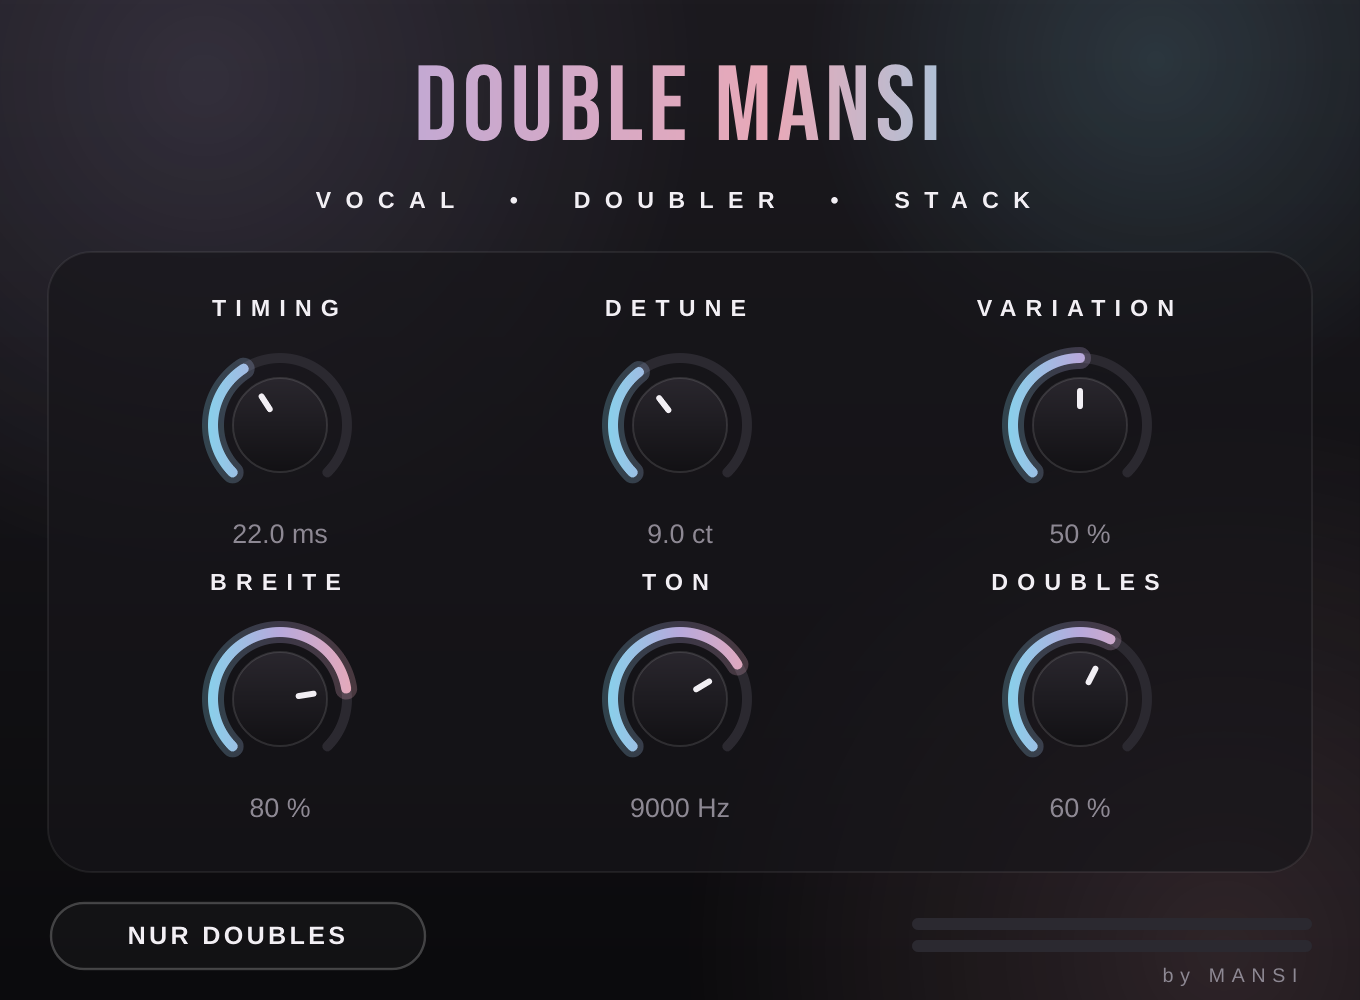
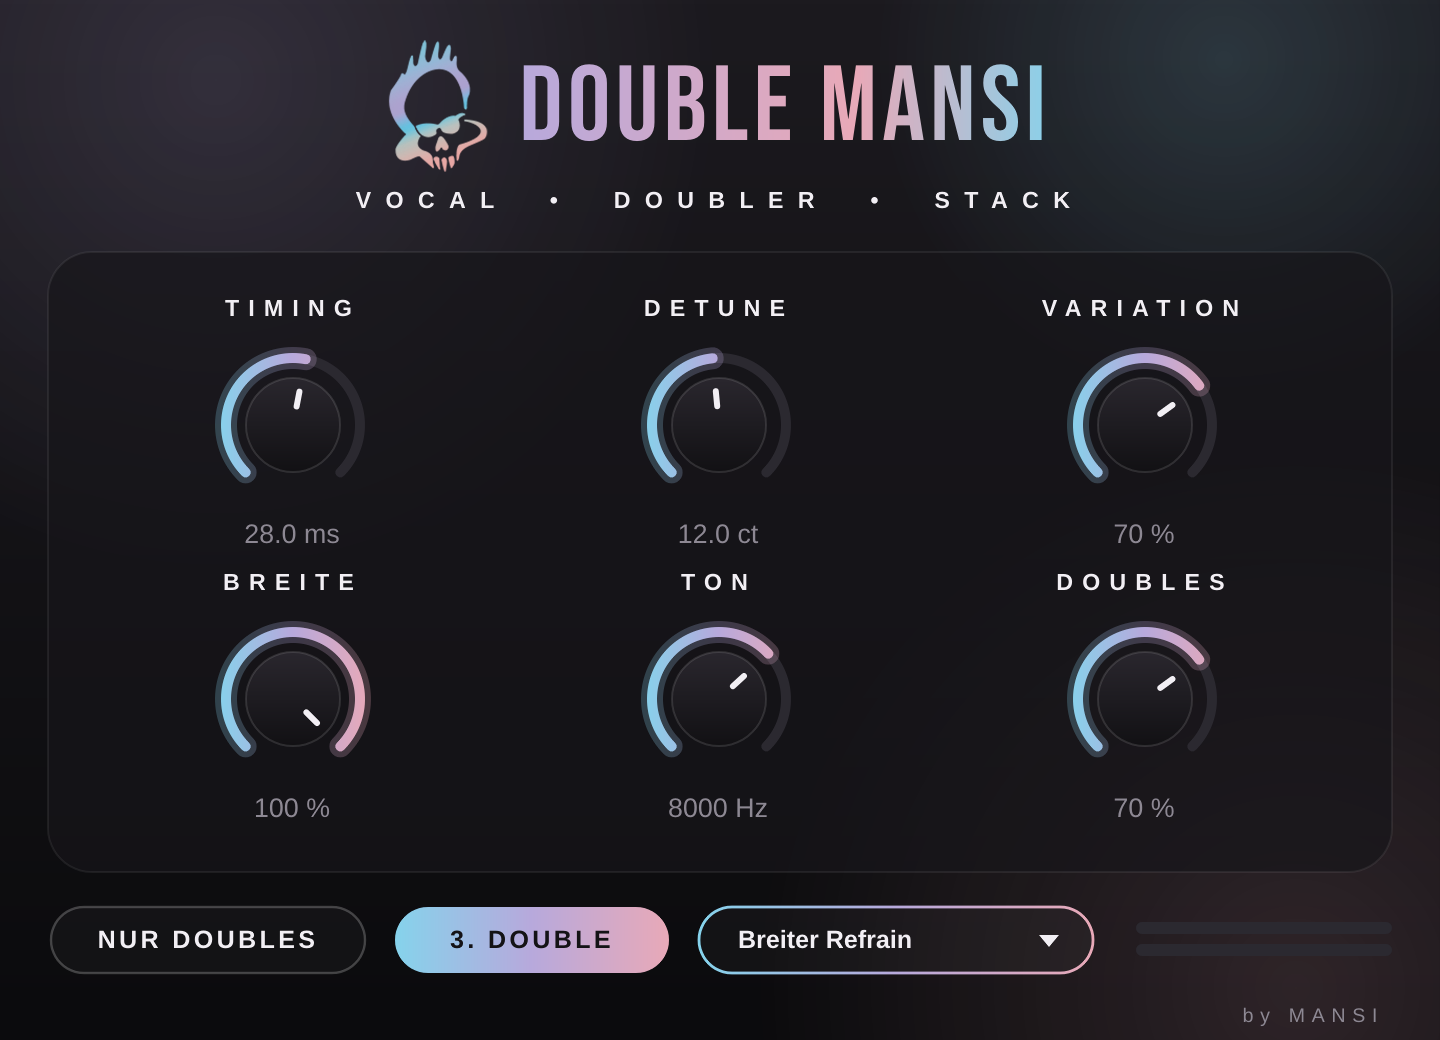
Add files via upload

diff --git a/PluginEditor.cpp b/PluginEditor.cpp
@@ -26,6 +26,11 @@ MansiLookAndFeel::MansiLookAndFeel()
     setColour (juce::Slider::textBoxTextColourId, Palette::text);
     setColour (juce::Slider::textBoxOutlineColourId, juce::Colours::transparentBlack);
     setColour (juce::Label::textColourId, Palette::text);
+    setColour (juce::ComboBox::textColourId, Palette::text);
+    setColour (juce::PopupMenu::backgroundColourId, juce::Colour (0xff1a181d));
+    setColour (juce::PopupMenu::textColourId, Palette::text);
+    setColour (juce::PopupMenu::highlightedBackgroundColourId, Palette::lavender.withAlpha (0.35f));
+    setColour (juce::PopupMenu::highlightedTextColourId, juce::Colours::white);
 }
 
 juce::Label* MansiLookAndFeel::createSliderTextBox (juce::Slider& s)
@@ -108,6 +113,33 @@ void MansiLookAndFeel::drawToggleButton (juce::Graphics& g, juce::ToggleButton& 
     g.drawText (b.getButtonText(), r, juce::Justification::centred);
 }
 
+void MansiLookAndFeel::drawComboBox (juce::Graphics& g, int w, int h, bool, int, int, int, int, juce::ComboBox& box)
+{
+    auto r = juce::Rectangle<float> (0, 0, (float) w, (float) h).reduced (1.5f);
+    const float corner = r.getHeight() * 0.5f;
+    g.setColour (juce::Colours::white.withAlpha (box.isMouseOver (true) ? 0.08f : 0.03f));
+    g.fillRoundedRectangle (r, corner);
+    g.setGradientFill (brandGradient (r));
+    g.drawRoundedRectangle (r, corner, 1.4f);
+
+    // kleiner Pfeil
+    const float ax = r.getRight() - 22.0f, ay = r.getCentreY();
+    juce::Path arrow;
+    arrow.addTriangle (ax - 5.0f, ay - 2.5f, ax + 5.0f, ay - 2.5f, ax, ay + 3.5f);
+    g.setColour (Palette::text);
+    g.fillPath (arrow);
+}
+
+void MansiLookAndFeel::positionComboBoxText (juce::ComboBox& box, juce::Label& label)
+{
+    label.setBounds (16, 1, box.getWidth() - 44, box.getHeight() - 2);
+    label.setFont (getComboBoxFont (box));
+    label.setJustificationType (juce::Justification::centredLeft);
+}
+
+juce::Font MansiLookAndFeel::getComboBoxFont (juce::ComboBox&) { return uiFont (14.0f, true); }
+juce::Font MansiLookAndFeel::getPopupMenuFont() { return uiFont (15.0f); }
+
 //==============================================================================
 DoubleMansiEditor::DoubleMansiEditor (DoubleMansiProcessor& p)
     : AudioProcessorEditor (p), processor (p)
@@ -125,13 +157,43 @@ DoubleMansiEditor::DoubleMansiEditor (DoubleMansiProcessor& p)
     onlyButton.setClickingTogglesState (true);
     onlyAttachment = std::make_unique<juce::AudioProcessorValueTreeState::ButtonAttachment> (processor.apvts, "only", onlyButton);
 
-    setSize (680, 500);
+    addAndMakeVisible (thirdButton);
+    thirdButton.setClickingTogglesState (true);
+    thirdAttachment = std::make_unique<juce::AudioProcessorValueTreeState::ButtonAttachment> (processor.apvts, "third", thirdButton);
+
+    // Presets
+    for (int i = 0; i < processor.getNumPrograms(); ++i)
+        presetBox.addItem (processor.getProgramName (i), i + 1);
+    presetBox.setTextWhenNothingSelected ("PRESETS");
+    presetBox.setSelectedId (processor.getCurrentProgram() + 1, juce::dontSendNotification);
+    presetBox.onChange = [this]
+    {
+        const int id = presetBox.getSelectedId();
+        if (id <= 0 || applyingPreset) return;
+        applyingPreset = true;
+        processor.setCurrentProgram (id - 1);
+        presetDirty = false;
+        applyingPreset = false;
+    };
+    addAndMakeVisible (presetBox);
+
+    // wenn ein Regler bewegt wird, ist es kein reines Preset mehr
+    for (auto* param : processor.getParameters())
+        param->addListener (this);
+
+   #if DM_HAS_LOGO
+    logo = juce::ImageCache::getFromMemory (BinaryData::logo_png, BinaryData::logo_pngSize);
+   #endif
+
+    setSize (720, 520);
     startTimerHz (30);
 }
 
 DoubleMansiEditor::~DoubleMansiEditor()
 {
     stopTimer();
+    for (auto* param : processor.getParameters())
+        param->removeListener (this);
     setLookAndFeel (nullptr);
 }
 
@@ -166,6 +228,22 @@ void DoubleMansiEditor::timerCallback()
     meterL = juce::jmax (processor.meterLeft.load(), meterL * 0.88f);
     meterR = juce::jmax (processor.meterRight.load(), meterR * 0.88f);
     repaint (meterArea);
+
+    if (presetDirty.exchange (false) && ! applyingPreset && presetBox.getSelectedId() != 0)
+    {
+        // pruefen, ob die Regler noch exakt dem gewaehlten Preset entsprechen
+        const auto& pr = DoubleMansiProcessor::presets()[(size_t) presetBox.getSelectedId() - 1];
+        auto val = [this] (const char* id) { return processor.apvts.getRawParameterValue (id)->load(); };
+        const bool same = std::abs (val ("timing") - pr.timing) < 0.05f
+                       && std::abs (val ("detune") - pr.detune) < 0.05f
+                       && std::abs (val ("variation") - pr.variation) < 0.5f
+                       && std::abs (val ("width") - pr.width) < 0.5f
+                       && std::abs (val ("tone") - pr.tone) < 1.0f
+                       && std::abs (val ("mix") - pr.mix) < 0.5f
+                       && ((val ("third") > 0.5f) == pr.third);
+        if (! same)
+            presetBox.setText (presetBox.getText().upToFirstOccurrenceOf (" *", false, false) + " *", juce::dontSendNotification);
+    }
 }
 
 void DoubleMansiEditor::paint (juce::Graphics& g)
@@ -187,17 +265,26 @@ void DoubleMansiEditor::paint (juce::Graphics& g)
     glow (Palette::pink, b.getWidth() * 0.9f, b.getHeight() * 0.95f, 280.0f);
     glow (Palette::sky, b.getWidth() * 0.85f, 30.0f, 180.0f);
 
-    // Titel im Verlaufs-Schriftzug
-    auto titleArea = juce::Rectangle<float> (0.0f, 22.0f, b.getWidth(), 64.0f);
-    g.setFont (juce::Font (juce::FontOptions (lnf.display).withHeight (64.0f)).withExtraKerningFactor (0.04f));
-    g.setGradientFill (juce::ColourGradient (Palette::lavender, b.getWidth() * 0.25f, 0,
-                                             Palette::sky, b.getWidth() * 0.75f, 0, false));
+    // Titel im Verlaufs-Schriftzug (mit Logo davor, falls vorhanden)
+    const juce::String title ("DOUBLE MANSI");
+    const auto titleFont = juce::Font (juce::FontOptions (lnf.display).withHeight (64.0f)).withExtraKerningFactor (0.04f);
+    const float textW = juce::GlyphArrangement::getStringWidth (titleFont, title);
+    const float logoH = 66.0f;
+    const float logoW = logo.isValid() ? logoH * (float) logo.getWidth() / (float) juce::jmax (1, logo.getHeight()) : 0.0f;
+    const float gap = logo.isValid() ? 16.0f : 0.0f;
+    const float startX = (b.getWidth() - (logoW + gap + textW)) * 0.5f;
+
+    if (logo.isValid())
+        g.drawImage (logo, juce::Rectangle<float> (startX, 20.0f, logoW, logoH), juce::RectanglePlacement::centred);
+
+    auto titleArea = juce::Rectangle<float> (startX + logoW + gap, 22.0f, textW + 4.0f, 64.0f);
+    g.setFont (titleFont);
     {
-        juce::ColourGradient tg (Palette::lavender, b.getWidth() * 0.22f, 0, Palette::sky, b.getWidth() * 0.78f, 0, false);
+        juce::ColourGradient tg (Palette::lavender, titleArea.getX(), 0, Palette::sky, titleArea.getRight(), 0, false);
         tg.addColour (0.62, Palette::pink);
         g.setGradientFill (tg);
     }
-    g.drawText ("DOUBLE MANSI", titleArea, juce::Justification::centred);
+    g.drawText (title, titleArea, juce::Justification::centredLeft);
 
     // Untertitel mit weiter Laufweite und Punkten
     g.setFont (uiFont (13.0f, true).withExtraKerningFactor (0.55f));
@@ -252,7 +339,12 @@ void DoubleMansiEditor::resized()
         knobs[i].setBounds (cell.reduced (30, 4));
     }
 
-    auto bottom = juce::Rectangle<int> (24, 450, getWidth() - 48, 36);
-    onlyButton.setBounds (bottom.removeFromLeft (190));
-    meterArea = bottom.removeFromRight (200).withSizeKeepingCentre (200, 17);
+    auto bottom = juce::Rectangle<int> (24, 452, getWidth() - 48, 36);
+    onlyButton.setBounds (bottom.removeFromLeft (160));
+    bottom.removeFromLeft (12);
+    thirdButton.setBounds (bottom.removeFromLeft (140));
+    bottom.removeFromLeft (12);
+    presetBox.setBounds (bottom.removeFromLeft (200));
+    bottom.removeFromLeft (20);
+    meterArea = bottom.withSizeKeepingCentre (juce::jmin (150, bottom.getWidth()), 17);
 }

diff --git a/PluginProcessor.cpp b/PluginProcessor.cpp
@@ -15,6 +15,49 @@ DoubleMansiProcessor::DoubleMansiProcessor()
     pTone      = apvts.getRawParameterValue ("tone");
     pMix       = apvts.getRawParameterValue ("mix");
     pOnly      = apvts.getRawParameterValue ("only");
+    pThird     = apvts.getRawParameterValue ("third");
+}
+
+const std::vector<DoubleMansiProcessor::Preset>& DoubleMansiProcessor::presets()
+{
+    //                          Timing Detune Var  Breite  Ton     Doubles 3.Double
+    static const std::vector<Preset> list {
+        { "Natuerlich",          22.0f,  9.0f, 50.0f,  80.0f, 9000.0f, 60.0f, false },
+        { "Tight Pop",           12.0f,  6.0f, 30.0f,  90.0f, 10000.0f, 55.0f, false },
+        { "Breiter Refrain",     28.0f, 12.0f, 70.0f, 100.0f, 8000.0f, 70.0f, true  },
+        { "Rock-Wall",           35.0f, 15.0f, 80.0f, 100.0f, 7000.0f, 80.0f, true  },
+        { "Fluester-Doubles",    18.0f,  8.0f, 40.0f,  70.0f, 5000.0f, 40.0f, false },
+        { "Choir-Stack",         40.0f, 20.0f, 90.0f, 100.0f, 6500.0f, 75.0f, true  },
+        { "Lo-Fi Schatten",      30.0f, 10.0f, 60.0f,  60.0f, 3500.0f, 50.0f, true  },
+    };
+    return list;
+}
+
+const juce::String DoubleMansiProcessor::getProgramName (int index)
+{
+    if (! juce::isPositiveAndBelow (index, (int) presets().size())) return {};
+    juce::String n (presets()[(size_t) index].name);
+    return n.replace ("ue", juce::CharPointer_UTF8 ("\xc3\xbc"));
+}
+
+void DoubleMansiProcessor::setCurrentProgram (int index)
+{
+    if (! juce::isPositiveAndBelow (index, (int) presets().size())) return;
+    currentPreset = index;
+    const auto& pr = presets()[(size_t) index];
+
+    auto set = [this] (const char* id, float value)
+    {
+        if (auto* param = apvts.getParameter (id))
+            param->setValueNotifyingHost (param->convertTo0to1 (value));
+    };
+    set ("timing", pr.timing);
+    set ("detune", pr.detune);
+    set ("variation", pr.variation);
+    set ("width", pr.width);
+    set ("tone", pr.tone);
+    set ("mix", pr.mix);
+    set ("third", pr.third ? 1.0f : 0.0f);
 }
 
 juce::AudioProcessorValueTreeState::ParameterLayout DoubleMansiProcessor::createLayout()
@@ -37,6 +80,7 @@ juce::AudioProcessorValueTreeState::ParameterLayout DoubleMansiProcessor::create
     p.push_back (std::make_unique<AudioParameterFloat> (ParameterID { "mix", 1 }, "Doubles",
         NormalisableRange<float> (0.0f, 100.0f, 1.0f), 60.0f, pct));
     p.push_back (std::make_unique<AudioParameterBool> (ParameterID { "only", 1 }, "Nur Doubles", false));
+    p.push_back (std::make_unique<AudioParameterBool> (ParameterID { "third", 1 }, "Drittes Double", false));
 
     return { p.begin(), p.end() };
 }
@@ -53,8 +97,9 @@ void DoubleMansiProcessor::prepareToPlay (double sampleRate, int)
 {
     voiceLeft.prepare (sampleRate, 1337);
     voiceRight.prepare (sampleRate, 4242);
+    voiceCenter.prepare (sampleRate, 777);
 
-    for (auto* s : { &timing, &detune, &variation, &width, &mix, &dryGain })
+    for (auto* s : { &timing, &detune, &variation, &width, &mix, &dryGain, &thirdGain })
         s->reset (sampleRate, 0.05);
 
     timing.setCurrentAndTargetValue (pTiming->load());
@@ -63,6 +108,7 @@ void DoubleMansiProcessor::prepareToPlay (double sampleRate, int)
     width.setCurrentAndTargetValue (pWidth->load() * 0.01f);
     mix.setCurrentAndTargetValue (pMix->load() * 0.01f);
     dryGain.setCurrentAndTargetValue (pOnly->load() > 0.5f ? 0.0f : 1.0f);
+    thirdGain.setCurrentAndTargetValue (pThird->load() > 0.5f ? 1.0f : 0.0f);
 }
 
 void DoubleMansiProcessor::processBlock (juce::AudioBuffer<float>& buffer, juce::MidiBuffer&)
@@ -80,9 +126,11 @@ void DoubleMansiProcessor::processBlock (juce::AudioBuffer<float>& buffer, juce:
     width.setTargetValue (pWidth->load() * 0.01f);
     mix.setTargetValue (pMix->load() * 0.01f);
     dryGain.setTargetValue (pOnly->load() > 0.5f ? 0.0f : 1.0f);
+    thirdGain.setTargetValue (pThird->load() > 0.5f ? 1.0f : 0.0f);
 
     voiceLeft.setTone (pTone->load());
     voiceRight.setTone (pTone->load() * 0.9f); // rechte Stimme minimal dunkler
+    voiceCenter.setTone (pTone->load() * 0.8f); // mittlere Stimme etwas weicher
 
     auto* L = buffer.getWritePointer (0);
     auto* R = buffer.getWritePointer (1);
@@ -103,6 +151,7 @@ void DoubleMansiProcessor::processBlock (juce::AudioBuffer<float>& buffer, juce:
         const float wd = width.getNextValue();
         const float mx = mix.getNextValue();
         const float dry = dryGain.getNextValue();
+        const float th = thirdGain.getNextValue();
 
         // zwei Stimmen mit unterschiedlichem Timing und entgegengesetzter Verstimmung
         const float v1 = voiceLeft.process (mono, tm, +dt, va);
@@ -111,10 +160,19 @@ void DoubleMansiProcessor::processBlock (juce::AudioBuffer<float>& buffer, juce:
         // Panorama mit gleicher Lautheit: Stimme 1 nach links, Stimme 2 nach rechts
         const float a1 = (1.0f - wd) * quarterPi;          // 0 = ganz links
         const float a2 = (1.0f + wd) * quarterPi;          // pi/2 = ganz rechts
-        const float level = mx * 0.8f;
+        // drittes Double: mittig, mit eigenem Timing und leichter Verstimmung nach oben
+        float v3 = 0.0f;
+        if (th > 0.0001f)
+            v3 = th * voiceCenter.process (mono, tm * 0.6f + 11.0f, dt * 0.5f, va);
+        else
+            voiceCenter.process (mono, tm * 0.6f + 11.0f, dt * 0.5f, va); // weiterlaufen lassen, damit das Einblenden sauber ist
 
-        const float outL = inL * dry + level * (v1 * std::cos (a1) + v2 * std::cos (a2));
-        const float outR = inR * dry + level * (v1 * std::sin (a1) + v2 * std::sin (a2));
+        // bei drei Stimmen etwas leiser mischen, damit die Gesamtlautstaerke gleich bleibt
+        const float level = mx * 0.8f * (1.0f - 0.18f * th);
+        const float centre = 0.7071f * 0.85f * v3;
+
+        const float outL = inL * dry + level * (v1 * std::cos (a1) + v2 * std::cos (a2) + centre);
+        const float outR = inR * dry + level * (v1 * std::sin (a1) + v2 * std::sin (a2) + centre);
 
         L[i] = outL;
         R[i] = outR;

diff --git a/PluginEditor.h b/PluginEditor.h
@@ -24,11 +24,17 @@ public:
                            float pos, float startAngle, float endAngle, juce::Slider&) override;
     void drawToggleButton (juce::Graphics&, juce::ToggleButton&, bool highlighted, bool down) override;
     juce::Label* createSliderTextBox (juce::Slider&) override;
+    void drawComboBox (juce::Graphics&, int w, int h, bool down, int, int, int, int, juce::ComboBox&) override;
+    void positionComboBoxText (juce::ComboBox&, juce::Label&) override;
+    juce::Font getComboBoxFont (juce::ComboBox&) override;
+    juce::Font getPopupMenuFont() override;
 
     juce::Typeface::Ptr display;   // Bebas Neue (OFL)
 };
 
-class DoubleMansiEditor : public juce::AudioProcessorEditor, private juce::Timer
+class DoubleMansiEditor : public juce::AudioProcessorEditor,
+                          private juce::Timer,
+                          private juce::AudioProcessorParameter::Listener
 {
 public:
     explicit DoubleMansiEditor (DoubleMansiProcessor&);
@@ -39,6 +45,8 @@ public:
 
 private:
     void timerCallback() override;
+    void parameterValueChanged (int, float) override { presetDirty = true; }
+    void parameterGestureChanged (int, bool) override {}
     void addKnob (int index, const juce::String& id, const juce::String& label);
 
     DoubleMansiProcessor& processor;
@@ -51,6 +59,14 @@ private:
 
     juce::ToggleButton onlyButton { "NUR DOUBLES" };
     std::unique_ptr<juce::AudioProcessorValueTreeState::ButtonAttachment> onlyAttachment;
+    juce::ToggleButton thirdButton { "3. DOUBLE" };
+    std::unique_ptr<juce::AudioProcessorValueTreeState::ButtonAttachment> thirdAttachment;
+
+    juce::ComboBox presetBox;
+    std::atomic<bool> presetDirty { false };
+    bool applyingPreset = false;
+
+    juce::Image logo;
 
     float meterL = 0.0f, meterR = 0.0f;
     juce::Rectangle<int> meterArea;

diff --git a/PluginProcessor.h b/PluginProcessor.h
@@ -23,10 +23,13 @@ public:
     bool isMidiEffect() const override { return false; }
     double getTailLengthSeconds() const override { return 0.15; }
 
-    int getNumPrograms() override { return 1; }
-    int getCurrentProgram() override { return 0; }
-    void setCurrentProgram (int) override {}
-    const juce::String getProgramName (int) override { return {}; }
+    // Presets
+    struct Preset { const char* name; float timing, detune, variation, width, tone, mix; bool third; };
+    static const std::vector<Preset>& presets();
+    int getNumPrograms() override { return (int) presets().size(); }
+    int getCurrentProgram() override { return currentPreset; }
+    void setCurrentProgram (int index) override;
+    const juce::String getProgramName (int index) override;
     void changeProgramName (int, const juce::String&) override {}
 
     void getStateInformation (juce::MemoryBlock& destData) override;
@@ -39,8 +42,9 @@ public:
     std::atomic<float> meterLeft { 0.0f }, meterRight { 0.0f };
 
 private:
-    DoubleVoice voiceLeft, voiceRight;
-    juce::SmoothedValue<float> timing, detune, variation, width, mix, dryGain;
+    DoubleVoice voiceLeft, voiceRight, voiceCenter;
+    juce::SmoothedValue<float> timing, detune, variation, width, mix, dryGain, thirdGain;
+    int currentPreset = 0;
 
     std::atomic<float>* pTiming = nullptr;
     std::atomic<float>* pDetune = nullptr;
@@ -49,6 +53,7 @@ private:
     std::atomic<float>* pTone = nullptr;
     std::atomic<float>* pMix = nullptr;
     std::atomic<float>* pOnly = nullptr;
+    std::atomic<float>* pThird = nullptr;
 
     JUCE_DECLARE_NON_COPYABLE_WITH_LEAK_DETECTOR (DoubleMansiProcessor)
 };
